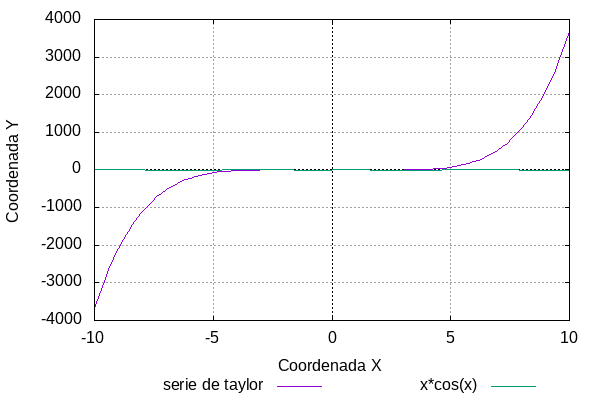
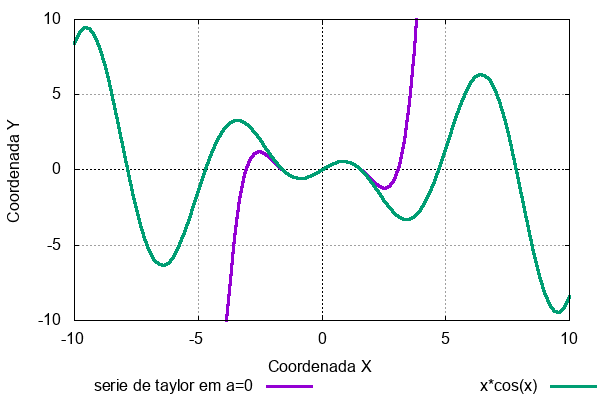
atualizando com gráfico de série de taylor

diff --git a/README.md b/README.md
@@ -7,7 +7,8 @@ This repository contains the algorithms implemented in the dicipline of _Numeric
 ## Reference  
 
 :link: [Numerical analysis (PDF)](https://fac.ksu.edu.sa/sites/default/files/numerical_analysis_9th.pdf)  
-
+:link: [Gnuplot tutorial (Slides)](https://www.if.ufrj.br/~sandra/MetComp/2017-2/AulaExtra/AulaExtra.pdf)   
+:link: [Practical class of Calculus 1 - Gnuplot (Slides)](http://www.uel.br/projetos/matessencial/superior/pdfs/sacgnu01.pdf)  
 
 ## Author  
 :copyright: IMD/UFRN 2019.   Samuel Lucas de Moura Ferino ( _samuel1797@gmail.com_ )  

diff --git a/Homework/FirstUnit/ListOne/README.md b/Homework/FirstUnit/ListOne/README.md
@@ -26,6 +26,8 @@ Estime pontos da função f(x) no intervalo [-6,6] dado que ( e somente a partir
 Grave os pontos estimados em um arquivo e plote-os com
  - plot "arquivo.pts" with lp, x\*cos(x)+1
 
-  
+## Exercício 3  
+
+Plote em um mesmo gráfico a função `f(x) = x*cos(x)` e sua aproximação pela série de taylor
 
 
